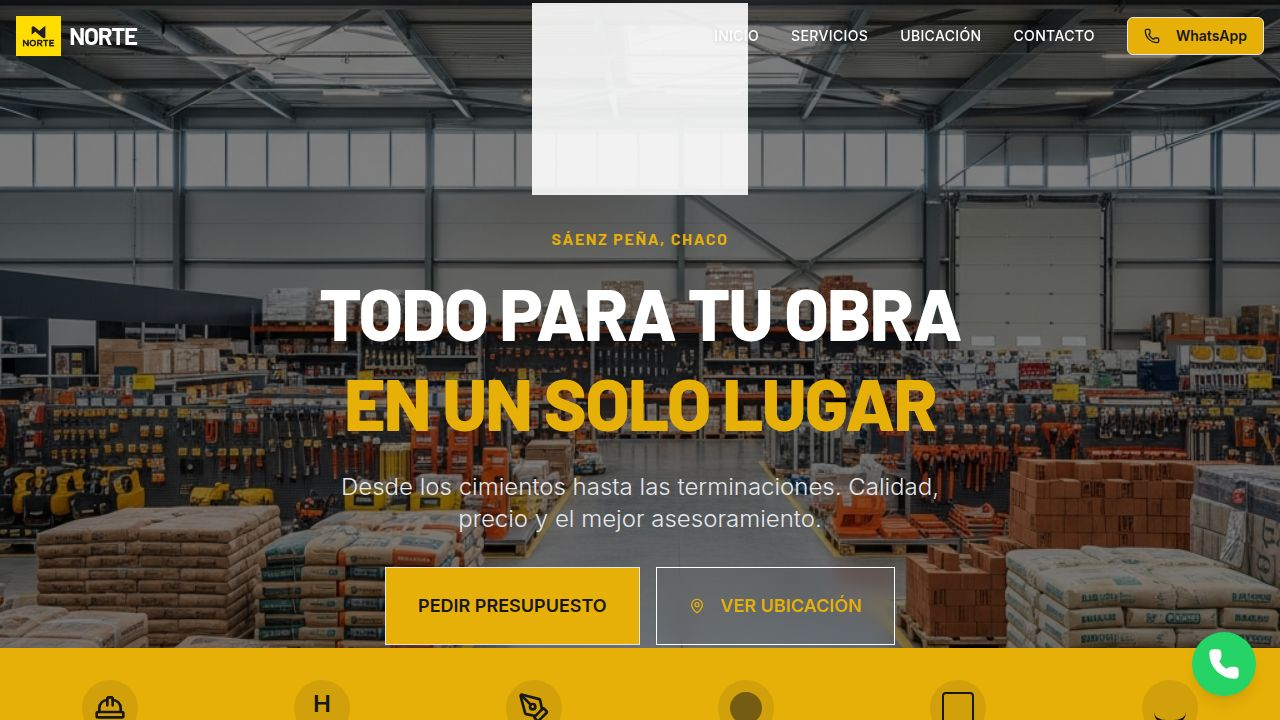
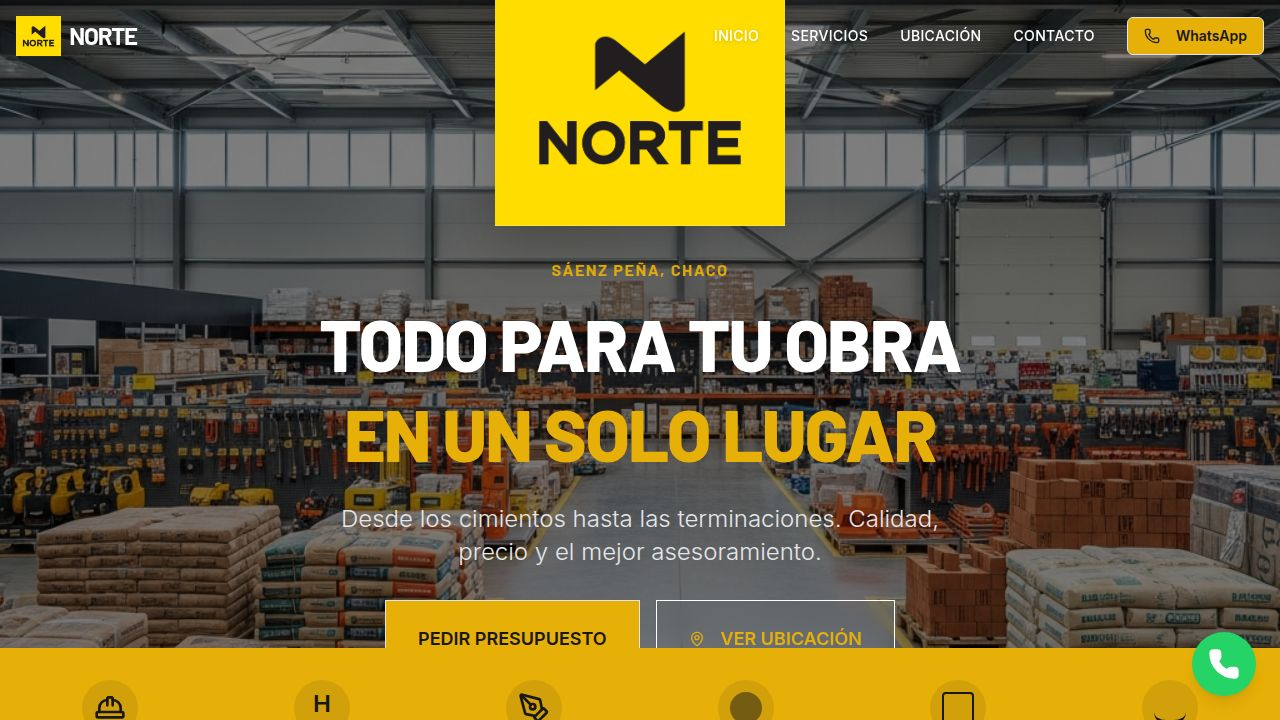
Improve mobile responsiveness and adjust hero section layout
Adjusted Hero section styling with dynamic height and padding for mobile devices, reduced element scaling, and optimized button sizes to resolve overlap issues and improve mobile user experience.

Replit-Commit-Author: Agent
Replit-Commit-Session-Id: bbfa2202-b966-41e6-aa7e-8f0338d78e98
Replit-Commit-Checkpoint-Type: full_checkpoint
Replit-Commit-Event-Id: c147aff2-bf88-422f-98a6-b3866f763c50
Replit-Commit-Screenshot-Url: https://storage.googleapis.com/screenshot-production-us-central1/24d61b99-1b1e-4f77-a00f-5e37a330a8cf/bbfa2202-b966-41e6-aa7e-8f0338d78e98/LBNRCsH
Replit-Helium-Checkpoint-Created: true

Changed region(s): [[0.25, 0.0, 0.75, 0.7333], [0.2812, 0.7639, 0.6562, 0.9167], [0.5312, 0.825, 0.6875, 0.9167]]

diff --git a/client/src/pages/home.tsx b/client/src/pages/home.tsx
@@ -157,7 +157,7 @@ export default function Home() {
       </nav>
 
       {/* Hero Section */}
-      <section id="inicio" className="relative h-[90vh] flex items-center justify-center overflow-hidden">
+      <section id="inicio" className="relative min-h-[90vh] md:h-[90vh] flex items-center justify-center overflow-hidden py-20 md:py-0">
         <div className="absolute inset-0 z-0">
           <img 
             src={heroImage} 
@@ -172,24 +172,25 @@ export default function Home() {
             initial={{ opacity: 0, y: 30 }}
             animate={{ opacity: 1, y: 0 }}
             transition={{ duration: 0.8 }}
+            className="flex flex-col items-center"
           >
-            <div className="flex justify-center mb-8">
-              <img src={logoImage} alt="Norte Logo Large" className="h-48 md:h-64 w-auto drop-shadow-2xl" />
+            <div className="flex justify-center mb-6 md:mb-8">
+              <img src={logoImage} alt="Norte Logo Large" className="h-40 md:h-64 w-auto drop-shadow-2xl" />
             </div>
-            <h2 className="text-primary font-bold tracking-widest uppercase mb-4 text-sm md:text-base">Sáenz Peña, Chaco</h2>
-            <h1 className="text-5xl md:text-7xl font-heading font-extrabold uppercase leading-tight mb-6">
+            <h2 className="text-primary font-bold tracking-widest uppercase mb-3 md:mb-4 text-sm md:text-base">Sáenz Peña, Chaco</h2>
+            <h1 className="text-4xl md:text-7xl font-heading font-extrabold uppercase leading-tight mb-4 md:mb-6">
               Todo para tu obra <br /> <span className="text-primary">en un solo lugar</span>
             </h1>
-            <p className="text-xl md:text-2xl text-gray-200 mb-8 max-w-2xl mx-auto font-light">
+            <p className="text-lg md:text-2xl text-gray-200 mb-6 md:mb-8 max-w-2xl mx-auto font-light leading-snug">
               Desde los cimientos hasta las terminaciones. Calidad, precio y el mejor asesoramiento.
             </p>
-            <div className="flex flex-col md:flex-row gap-4 justify-center">
-              <a href="https://wa.me/5493644646939?text=Hola,%20quisiera%20un%20presupuesto" target="_blank" rel="noopener noreferrer">
-                <Button size="lg" className="bg-primary text-secondary hover:bg-primary/90 text-lg px-8 py-6 h-auto font-bold uppercase rounded-none w-full md:w-auto">
+            <div className="flex flex-col md:flex-row gap-3 md:gap-4 justify-center w-full max-w-xs md:max-w-none px-4">
+              <a href="https://wa.me/5493644646939?text=Hola,%20quisiera%20un%20presupuesto" target="_blank" rel="noopener noreferrer" className="w-full md:w-auto">
+                <Button size="lg" className="bg-primary text-secondary hover:bg-primary/90 text-lg px-8 py-5 md:py-6 h-auto font-bold uppercase rounded-none w-full">
                   Pedir Presupuesto
                 </Button>
               </a>
-              <Button size="lg" variant="outline" className="border-white text-primary hover:bg-white hover:text-secondary text-lg px-8 py-6 h-auto uppercase rounded-none font-bold backdrop-blur-sm" onClick={() => scrollTo('ubicación')}>
+              <Button size="lg" variant="outline" className="border-white text-primary hover:bg-white hover:text-secondary text-lg px-8 py-5 md:py-6 h-auto uppercase rounded-none font-bold backdrop-blur-sm w-full md:w-auto" onClick={() => scrollTo('ubicación')}>
                 <MapPin className="mr-2 h-5 w-5" /> Ver Ubicación
               </Button>
             </div>
